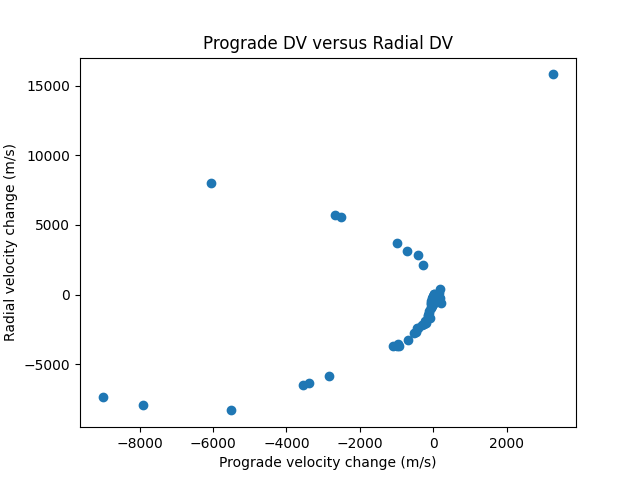
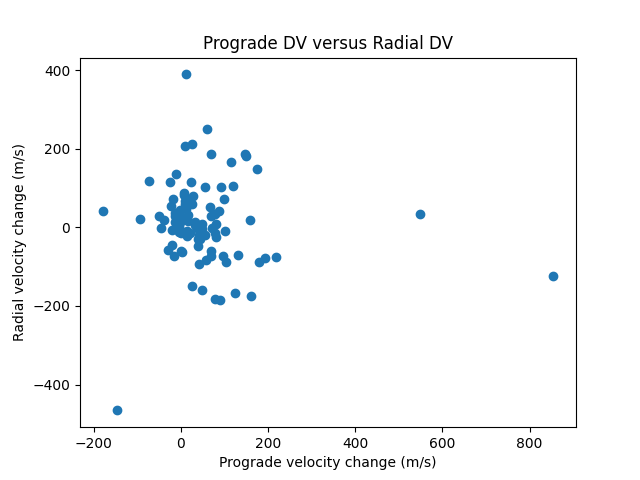
Modified mean anomalies to improve analysis

diff --git a/mean_anomaly_corrector.py b/mean_anomaly_corrector.py
@@ -9,8 +9,8 @@ import numpy as np
 #Define a class of satellite that remembers its mean anomaly and can be adjusted.
 class meanSat(EarthSatellite):
     def __init__(self,line1,line2,name=None, ts=None):
-        self.line1 = line1
-        self.line2 = line2
+        self.line1 = line1.replace("\n","")
+        self.line2 = line2.replace("\n","")
         self.name = name
         self.ts = ts
         super().__init__(line1,line2,name,ts)
@@ -52,20 +52,23 @@ for time in time_range:
 print(overall_variance)
 impact_time = time_of_min_var
 print(f"Collision found. {impact_time.utc_strftime()}")
-#Step 3: Get the average position of all the objects at that time
-locations_at_impact = np.array([sat.at(impact_time).position.m for sat in objects])
-mean_location = locations_at_impact.mean(axis=0)
-print(mean_location)
+#Step 3: Get the known location of the target sat at that time
+intact_line1 = '1 13552U 82092A   21317.92599714  .00002092  00000-0  71807-4 0  9997'
+intact_line2 = '2 13552  82.5637 124.8027 0018519 111.6524 248.6690 15.29385168142636'
+intact_sat = EarthSatellite(intact_line1,intact_line2)
+impact_site = intact_sat.at(impact_time).position.m
+print(impact_site)
 #Step 4: For each object, identify the best mean anomaly to get close to that location.
 for sat in objects:
     best_MA = None
     mindist = 1e20
     for ma_val in np.linspace(0,360,1000):
         sat.set_MA(ma_val)
-        dist = np.linalg.norm(sat.at(impact_time).position.m - mean_location)
+        dist = np.linalg.norm(sat.at(impact_time).position.m - impact_site)
         if dist < mindist:
             best_MA = ma_val
             mindist = dist
+    sat.set_MA(best_MA)
 #Step 5: Rerun the center-finder.
 for time in time_range:
     sat_positions = [sat.at(time).position.km for sat in objects]
@@ -79,3 +82,10 @@ for time in time_range:
         min_variance = overall_variance
         time_of_min_var = time
 print(overall_variance)
+print(time_of_min_var - impact_time)
+#Step 6: Output TLEs
+with open('corrected_tles.txt','w') as f:
+    for sat in objects:
+        f.write(sat.name+"\n")
+        f.write(sat.line1+"\n")
+        f.write(sat.line2+"\n")

diff --git a/sat_position_viewer.py b/sat_position_viewer.py
@@ -7,7 +7,7 @@ from matplotlib.widgets import Slider
 
 ts = load.timescale()
 global time_of_interest
-time_of_interest = ts.utc(2021,11,15,2)
+time_of_interest = ts.utc(2021,11,15,2,53,44)
 TWOPI = 2 * np.pi
 HALFPI = np.pi / 2
 def mark_satellite(sat,plot_time):
@@ -59,7 +59,7 @@ date_slider.valtext.set_text(time_of_interest.utc_strftime("\n%Y-%m-%d\n%H:%M:%S
 global plotted_objects
 plotted_objects = []
 ax.set_title("")
-with open('tles.txt') as tlefile:
+with open('corrected_tles.txt') as tlefile:
     lines = tlefile.readlines()
     #split file into groups of 3 lines
     triplets= [lines[i:i+3] for i in range(0,len(lines),3)]

diff --git a/process_data.py b/process_data.py
@@ -3,7 +3,7 @@ import numpy as np
 import matplotlib.pyplot as plt
 
 print("Loading TLE's of debris objects")
-with open('tles.txt') as tlefile:
+with open('corrected_tles.txt') as tlefile:
     lines = tlefile.readlines()
     #split file into groups of 3 lines
     triplets= [lines[i:i+3] for i in range(0,len(lines),3)]
